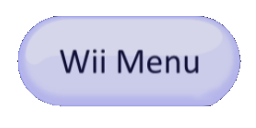
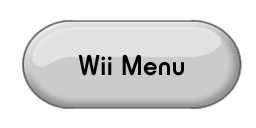
updated Home Screen graphics, courtesy of pretender13

diff --git a/trunk/CoverFlow/source/homemenu.c b/trunk/CoverFlow/source/homemenu.c
@@ -84,7 +84,7 @@ void HomeMenu_Show()
 	wiiMenuButton.x = 28-400;
 	wiiMenuButton.y = 180;
 	loaderButton.x  = 355+400;
-	loaderButton.y = 170;
+	loaderButton.y = 180;
 	
 	wiimoteButton.x = 64;
 	wiimoteButton.y = 400 + 400;
